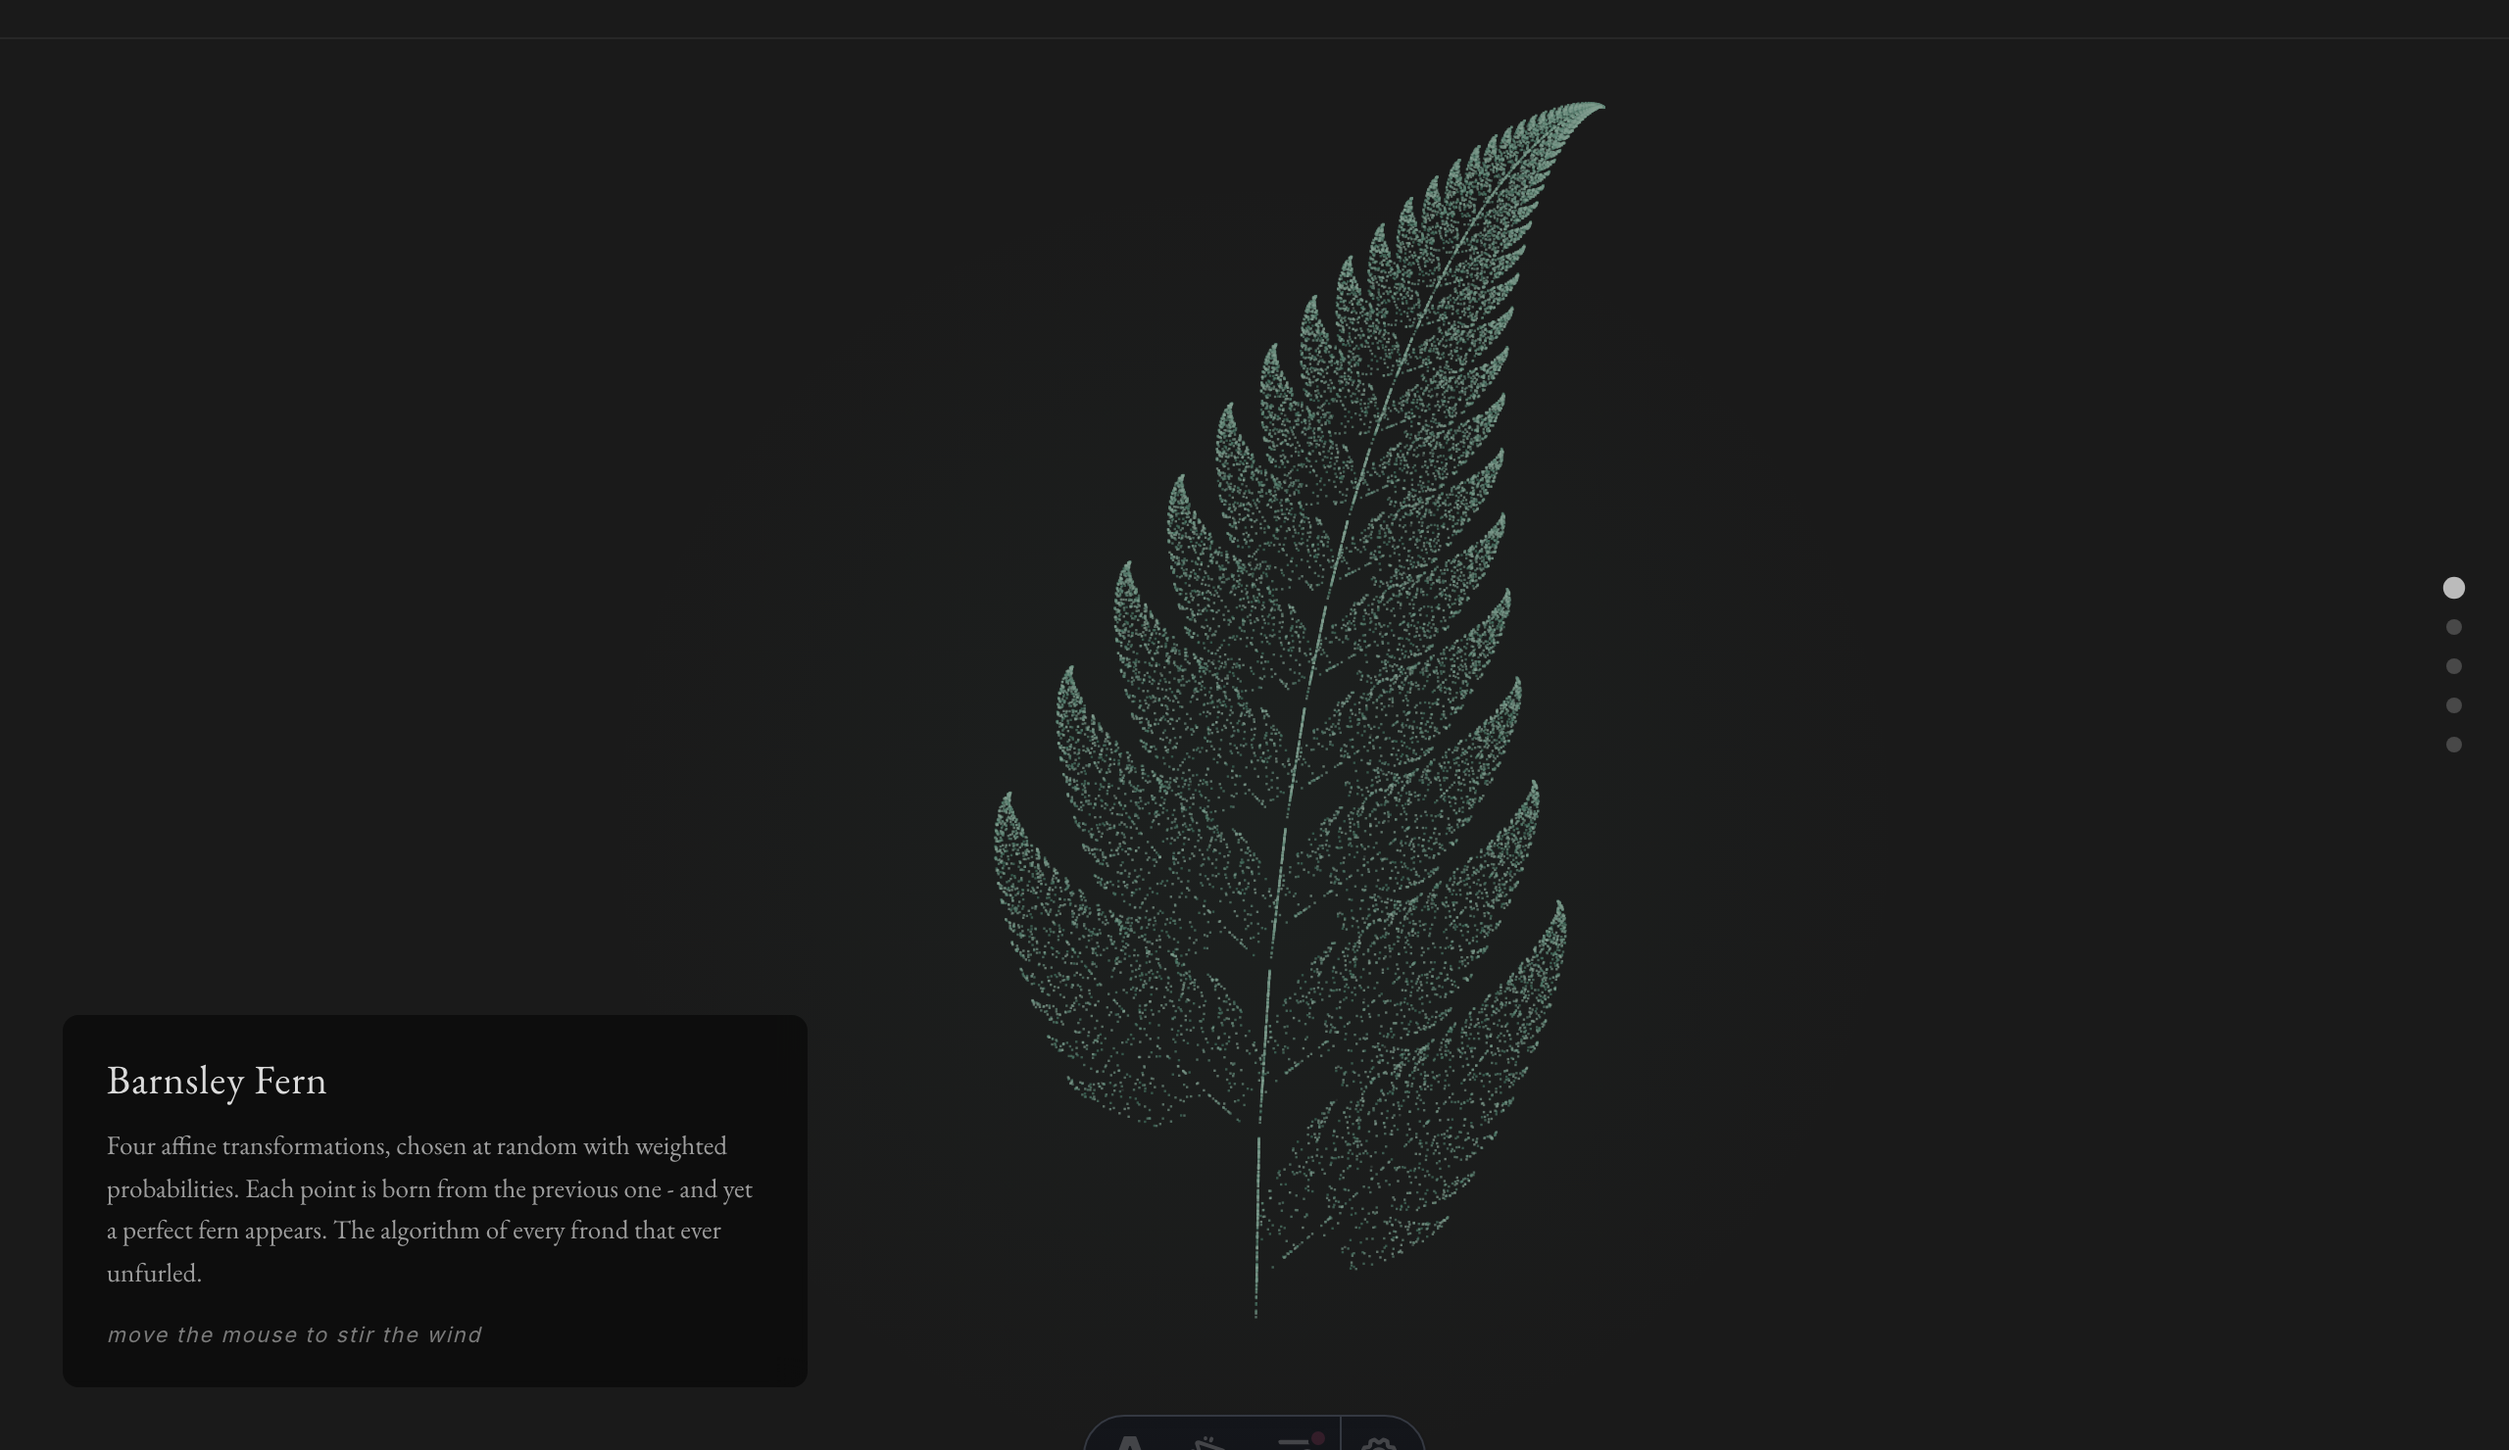
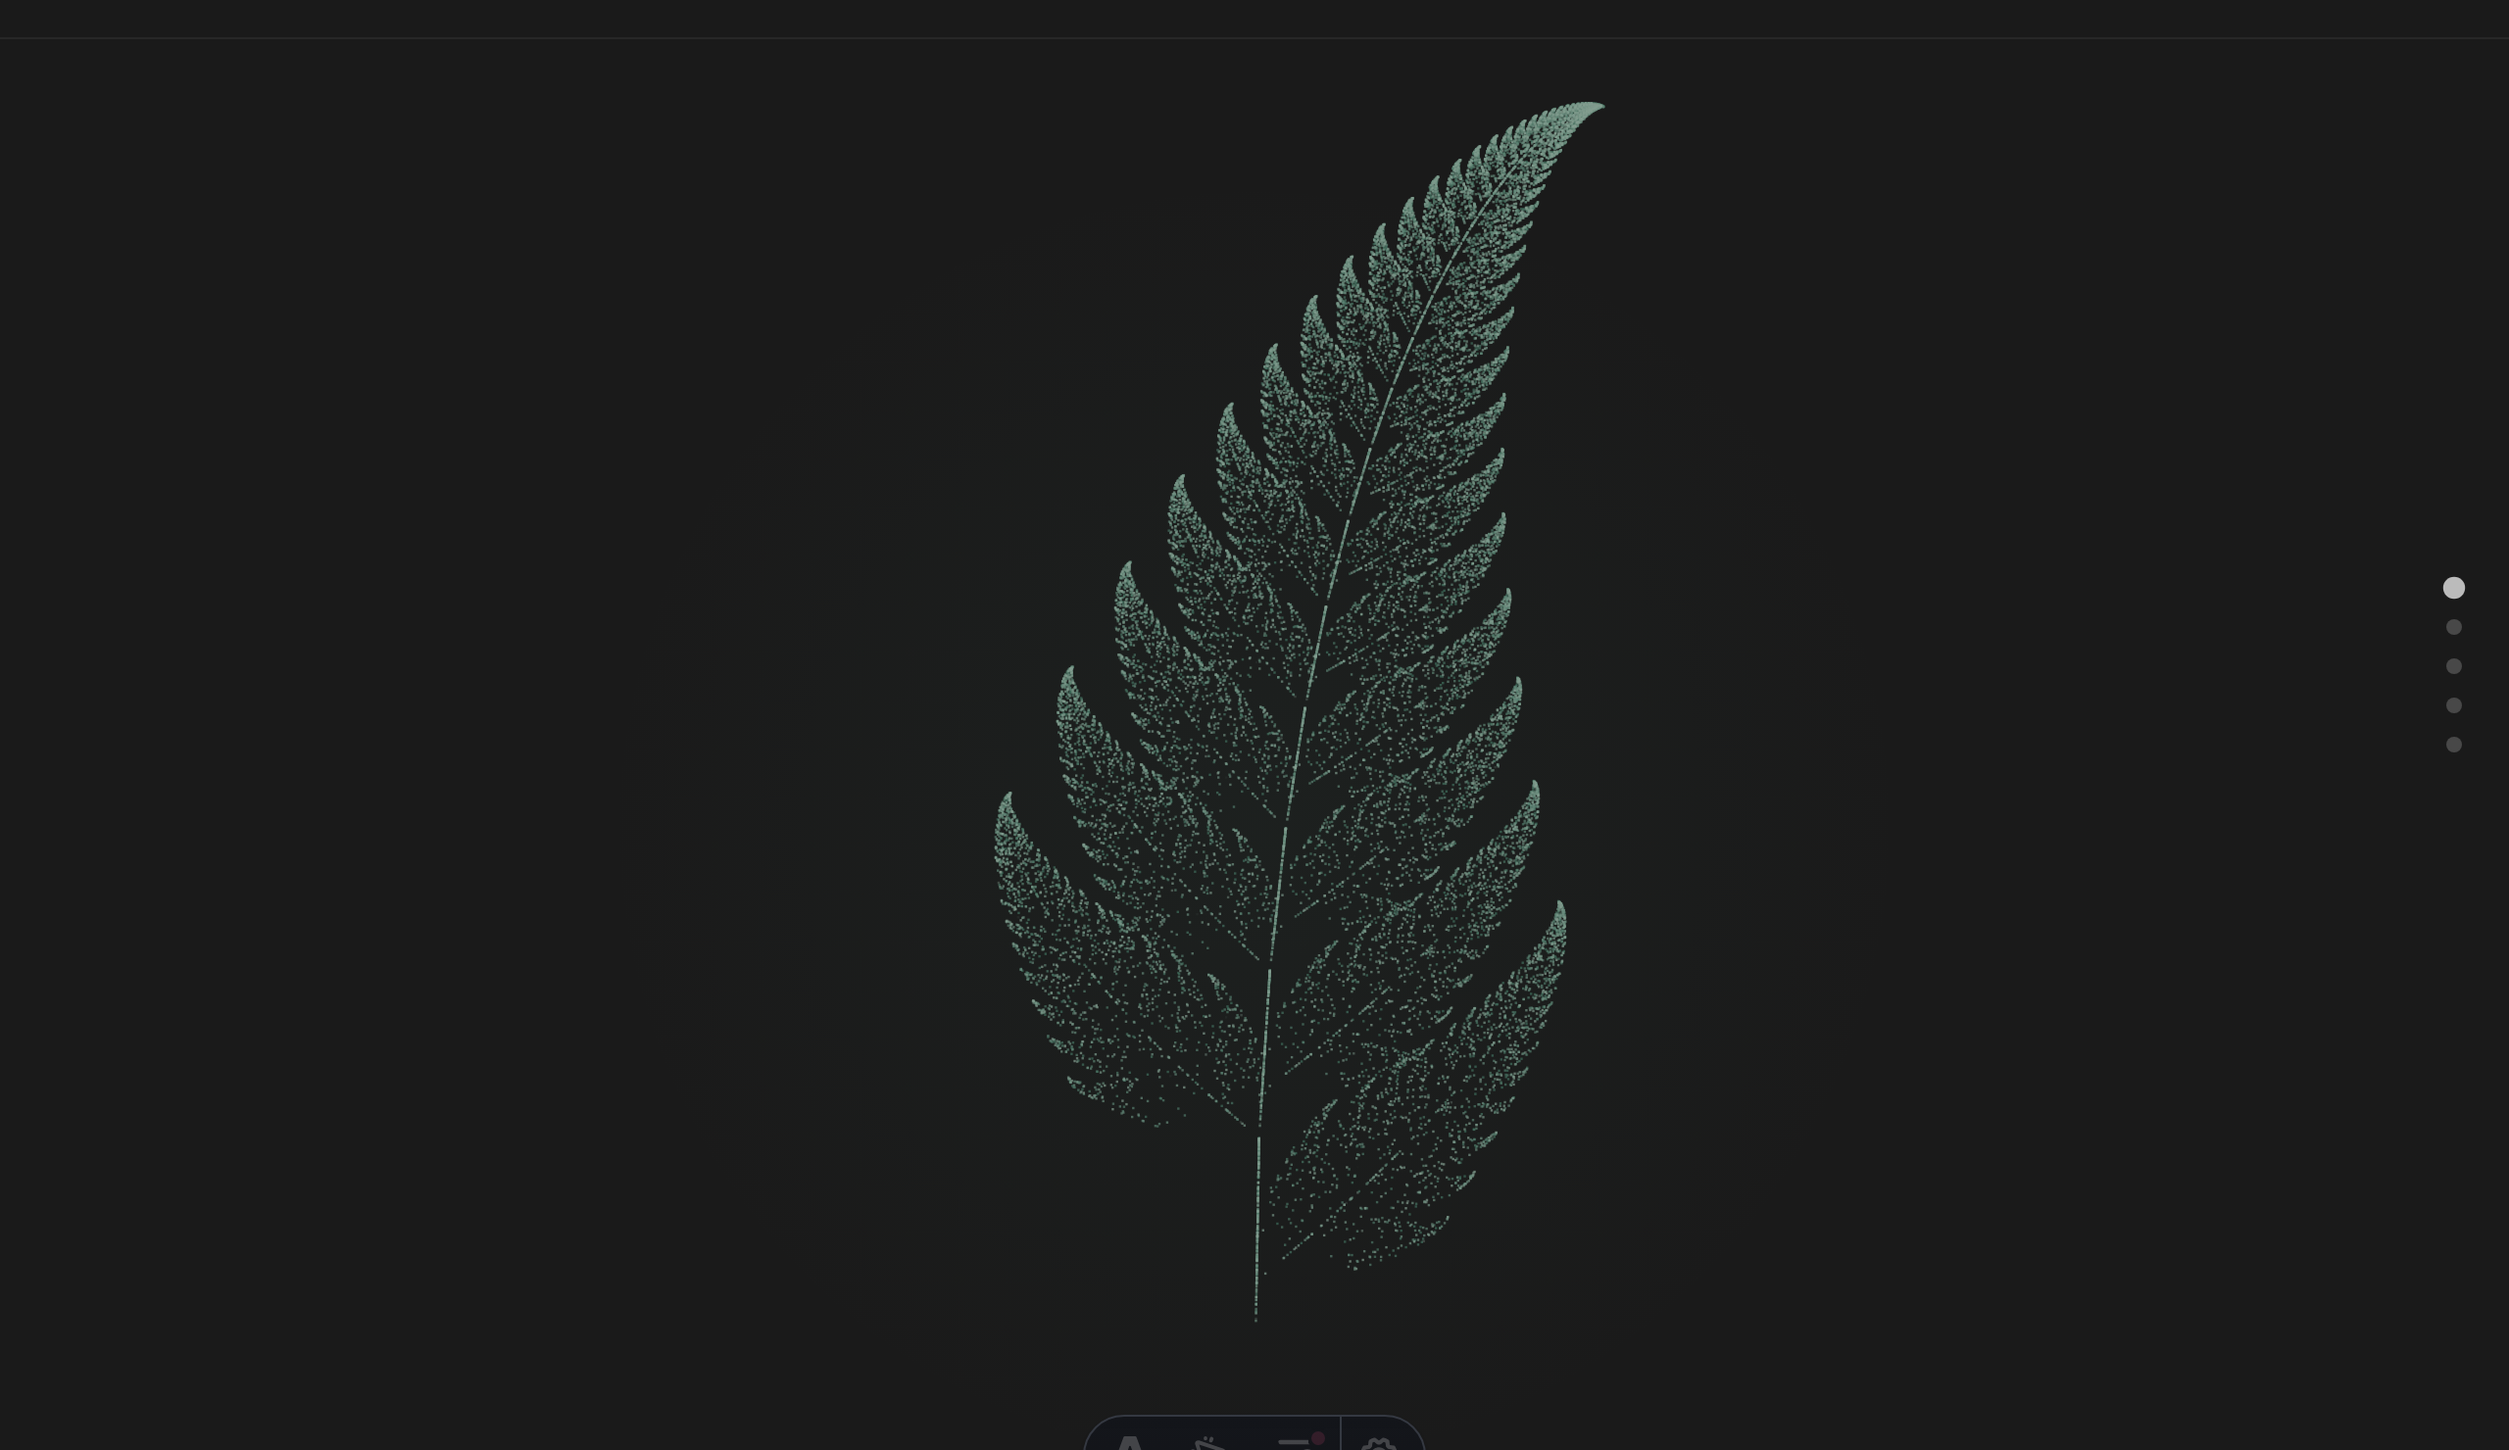
Polish: subtitles in Mayra's voice, wider links section, slower quotes, clean thumbnails
- Add Lab subtitle: "Where math meets nature — interactive explorations
  I'm building now."
- Add Frameworks subtitle: "Mental models and frameworks from thinkers I
  admire — organized for when clarity matters most."
- Add EXPLORE label to links section, widen to 900px to match other sections
- Slow quote auto-rotation from 12s to 30s
- Re-generate all thumbnails with info overlays hidden

diff --git a/scripts/generate-thumbnails.ts b/scripts/generate-thumbnails.ts
@@ -15,16 +15,19 @@ const PAGES = [
     url: 'http://localhost:4321/fractais',
     selector: '.fractal-section',
     vizAttr: 'data-viz',
+    infoSelector: '.fractal-info',
   },
   {
     url: 'http://localhost:4321/complexity',
     selector: '.complexity-section',
     vizAttr: 'data-viz',
+    infoSelector: '.complexity-info',
   },
   {
     url: 'http://localhost:4321/patterns',
     selector: '.lab-section',
     vizAttr: 'data-viz',
+    infoSelector: '.lab-info',
   },
 ];
 
@@ -43,6 +46,13 @@ async function main() {
     await page.goto(pageConfig.url, { waitUntil: 'networkidle' });
     await page.waitForTimeout(2000);
 
+    // Hide ALL info overlays before taking any screenshots
+    await page.evaluate((infoSel) => {
+      document.querySelectorAll(infoSel).forEach((el) => {
+        (el as HTMLElement).style.display = 'none';
+      });
+    }, pageConfig.infoSelector);
+
     const sections = await page.$$(pageConfig.selector);
     console.log(`Found ${sections.length} visualization sections`);
 
@@ -50,20 +60,16 @@ async function main() {
       const slug = await section.getAttribute(pageConfig.vizAttr);
       if (!slug) continue;
 
-      // Use JS to scroll the section into the scroll-snap container viewport
+      // Scroll into view
       await page.evaluate((el) => {
         el.scrollIntoView({ block: 'center', behavior: 'instant' });
       }, section);
 
-      // Give the canvas time to render after scrolling
       await page.waitForTimeout(3000);
 
-      // Take a screenshot of the section (not just the canvas) to capture the full visualization
-      const outputPath = join(OUTPUT_DIR, `${slug}.webp`);
       const pngPath = join(OUTPUT_DIR, `${slug}.png`);
 
       try {
-        // Try screenshotting the canvas first
         const canvas = await section.$('canvas');
         if (canvas) {
           const box = await canvas.boundingBox();
@@ -74,13 +80,13 @@ async function main() {
           }
         }
       } catch {
-        // fallback to section screenshot
+        // fallback
       }
 
-      // Fallback: screenshot the whole section
+      // Fallback: screenshot the section (now without info overlay)
       try {
         await section.screenshot({ path: pngPath, type: 'png', timeout: 5000 });
-        console.log(`  Captured ${slug} (section fallback) -> ${pngPath}`);
+        console.log(`  Captured ${slug} (section) -> ${pngPath}`);
       } catch (err) {
         console.log(`  Failed to capture ${slug}: ${(err as Error).message}`);
       }
